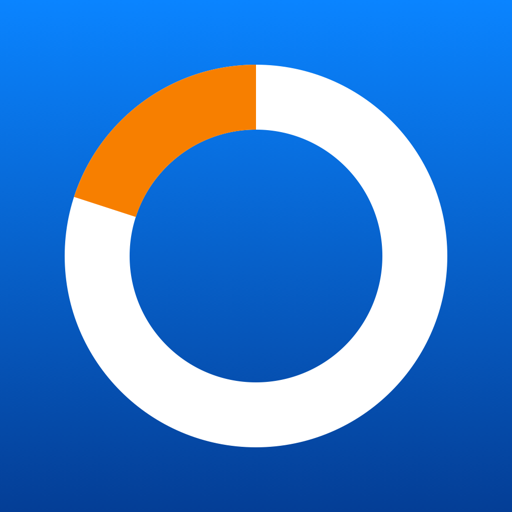
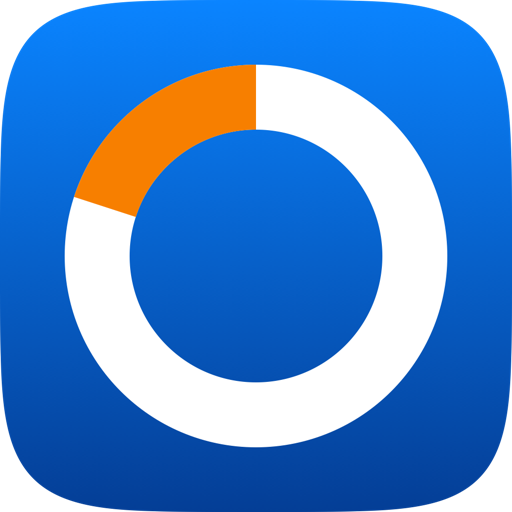
Refine Home Stretch page, fix Ankle Flex typo
- Drop the Support section. Neither of the other app pages has one, and
  the App Store accepts the same URL for support and privacy policy.
- Mask the icon to the iOS squircle with transparent corners, the same
  treatment as the KeyboardLock icon. Generated by tools/make_icon.swift
  in the HomeStretch repo, which now emits both the square
  asset-catalogue icon and this rounded one from the same source.
- Remove a stray U+2202 from the end of the Ankle Flex feature list.

diff --git a/AnkleFlex/index.md b/AnkleFlex/index.md
@@ -10,7 +10,7 @@ Features:
 - Includes the default Ankle Flex protocol timer.
 - Customizable timers with intervals and repetitions.
 - Graphical and numeric timer progress indicators.
-- Automatically logs PT sessions with time, duration, and number of reps.∂
+- Automatically logs PT sessions with time, duration, and number of reps.
 
 ### Privacy Policy
 Ankle Flex does not collect, store, or share any personal information. No data is transmitted off your device.

diff --git a/HomeStretch/index.md b/HomeStretch/index.md
@@ -16,8 +16,5 @@ Features:
 
 Home Stretch is listed on the App Store as **Home Stretch Timer**.
 
-### Support
-Questions, bug reports, or feature requests? Email `perry[dot]hooker[at]gmail[dot]com`.
-
 ### Privacy Policy
 Home Stretch does not collect, store, or share any personal information. No data is transmitted off your device.
